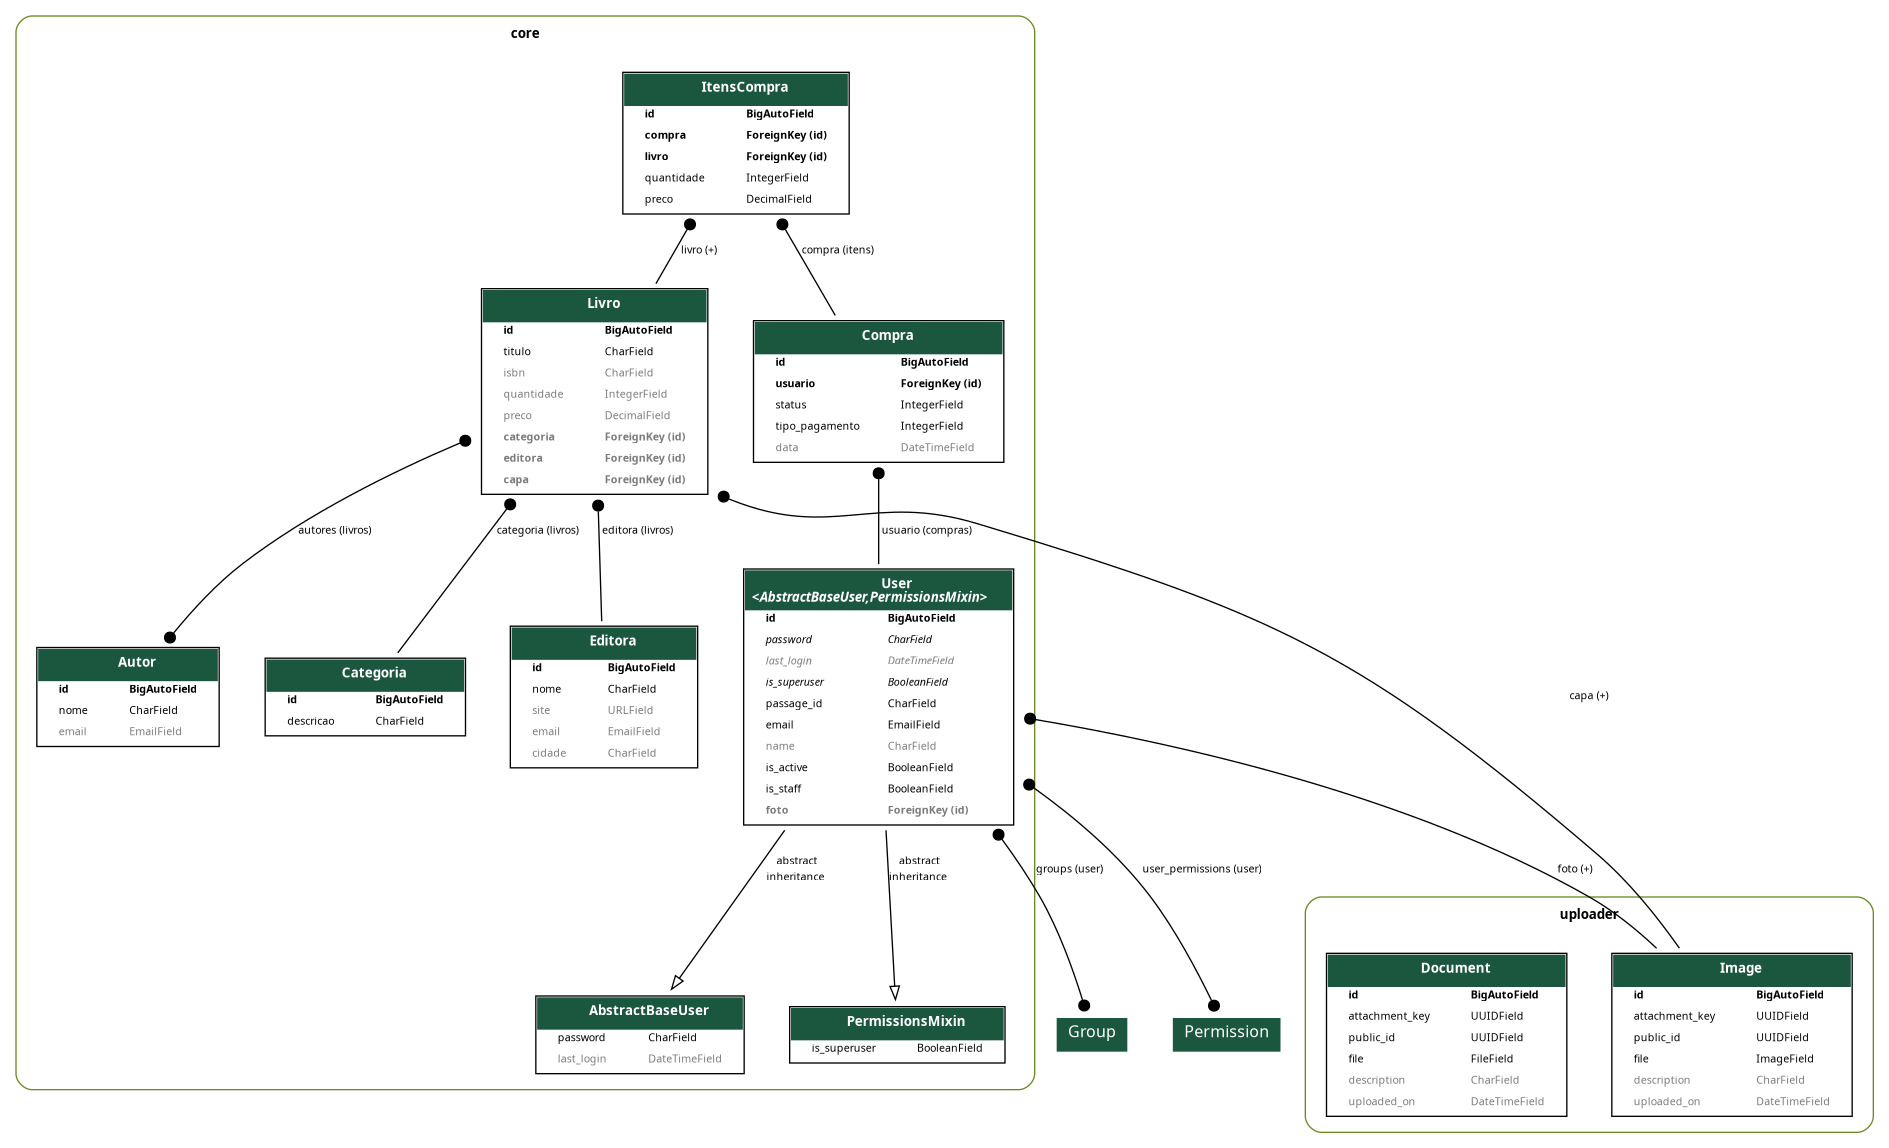
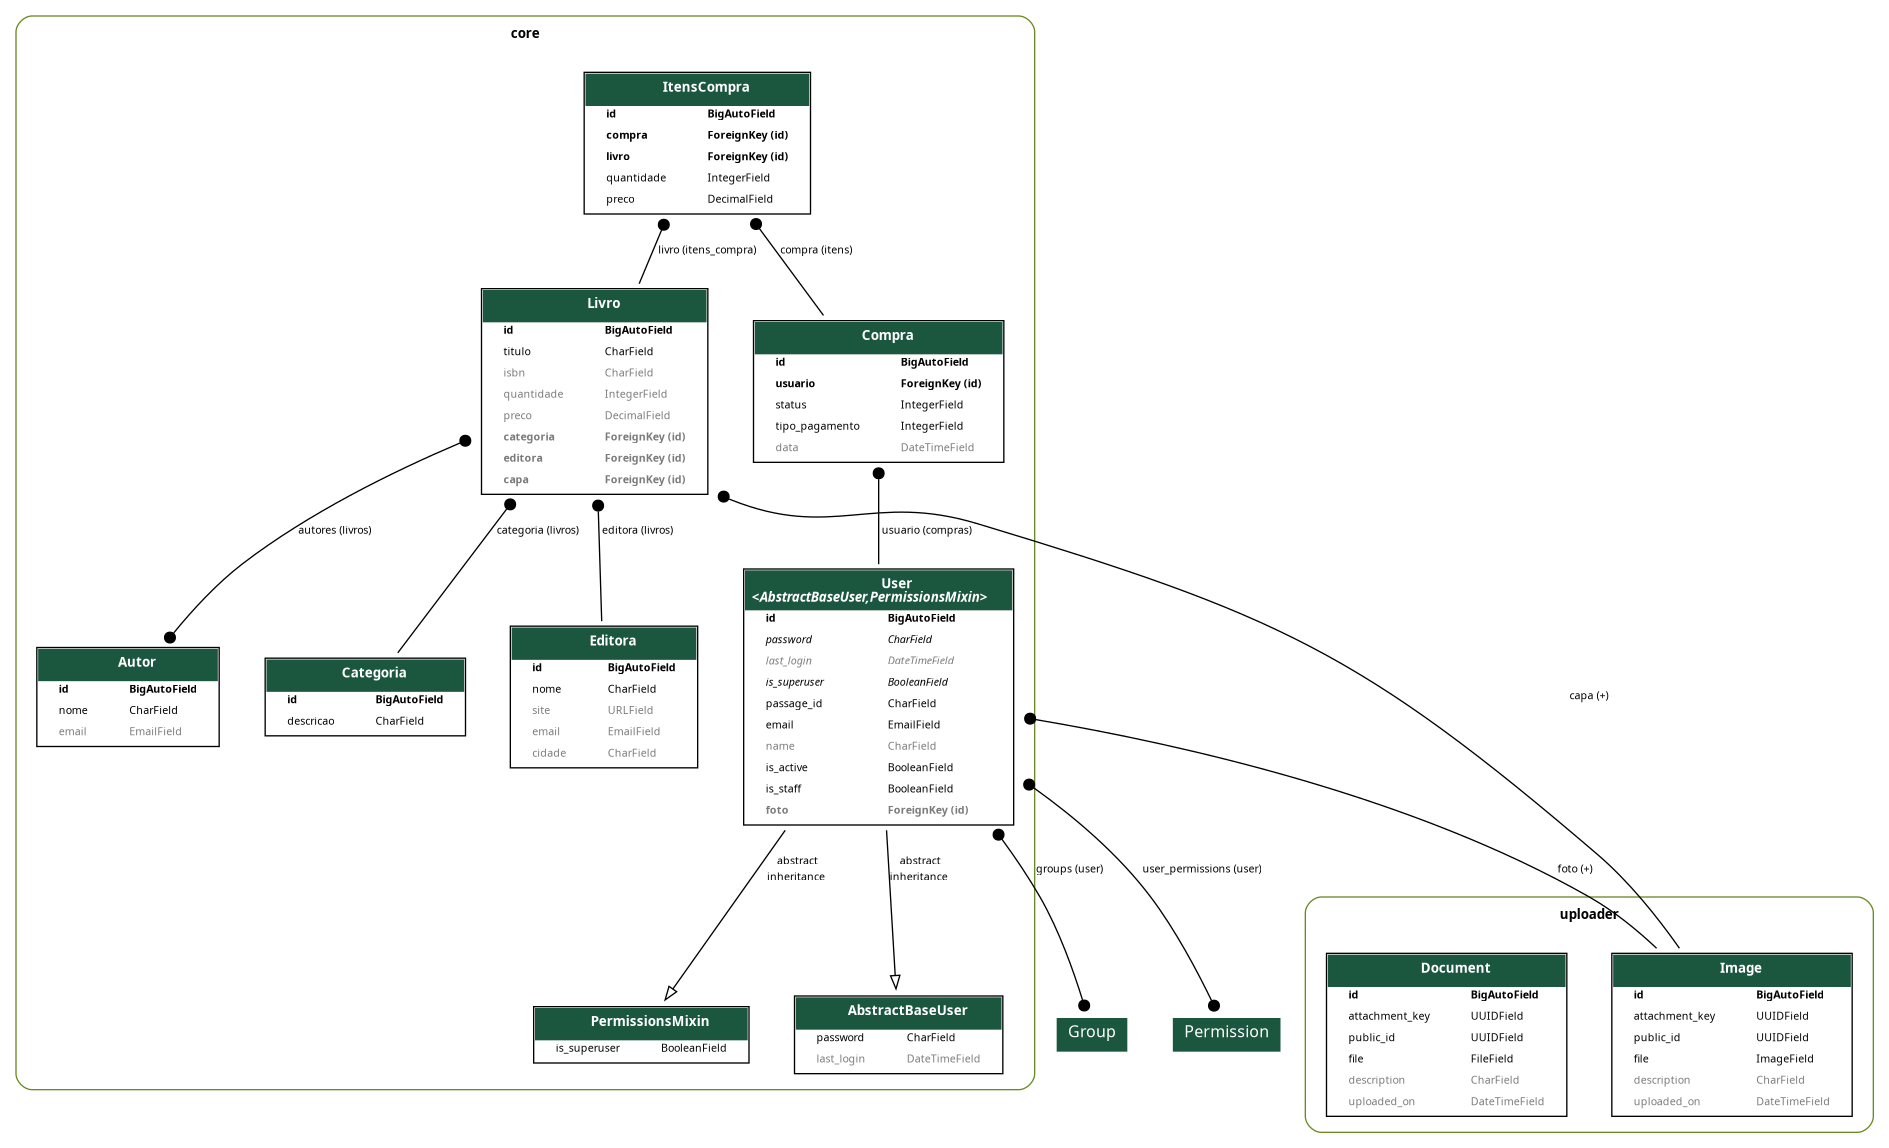
feat: #35d listando livros com mais de 10 cópias vendidas

diff --git a/core/views/livro.py b/core/views/livro.py
@@ -1,3 +1,4 @@
+from django.db.models import Sum
 from drf_spectacular.utils import extend_schema
 from rest_framework import status
 from rest_framework.decorators import action
@@ -8,6 +9,7 @@ from core.models import Livro
 from core.serializers import (
     LivroAlterarPrecoSerializer,
     LivroListSerializer,
+    LivroMaisVendidoSerializer,
     LivroRetrieveSerializer,
     LivroSerializer,
 )
@@ -43,3 +45,26 @@ class LivroViewSet(ModelViewSet):
         return Response(
             {'detail': f'Preço do livro "{livro.titulo}" atualizado para {livro.preco}.'}, status=status.HTTP_200_OK
         )
+
+    @extend_schema(
+        summary="Lista os livros mais vendidos",
+        description="Retorna os livros que venderam mais de 10 unidades.",
+        responses={
+            200: LivroMaisVendidoSerializer(many=True)
+        },
+    )
+    @action(detail=False, methods=['get'])
+    def mais_vendidos(self, request):
+        livros = Livro.objects.annotate(
+            total_vendidos=Sum('itens_compra__quantidade')
+        ).filter(total_vendidos__gt=10).order_by('-total_vendidos')
+
+        serializer = LivroMaisVendidoSerializer(livros, many=True)
+
+        if not serializer.data:
+            return Response(
+                {"detail": "Nenhum livro excedeu 10 vendas."},
+                status=status.HTTP_200_OK
+            )
+
+        return Response(serializer.data, status=status.HTTP_200_OK)

diff --git a/core/migrations/0024_alter_compra_status_alter_itenscompra_livro.py b/core/migrations/0024_alter_compra_status_alter_itenscompra_livro.py
@@ -1,0 +1,24 @@
+# Generated by Django 5.2.1 on 2025-10-14 12:16
+
+import django.db.models.deletion
+from django.db import migrations, models
+
+
+class Migration(migrations.Migration):
+
+    dependencies = [
+        ('core', '0023_compra_tipo_pagamento'),
+    ]
+
+    operations = [
+        migrations.AlterField(
+            model_name='compra',
+            name='status',
+            field=models.IntegerField(choices=[(1, 'Carrinho'), (2, 'Finalizado'), (3, 'Pago'), (4, 'Entregue')], default=1),
+        ),
+        migrations.AlterField(
+            model_name='itenscompra',
+            name='livro',
+            field=models.ForeignKey(on_delete=django.db.models.deletion.PROTECT, related_name='itens_compra', to='core.livro'),
+        ),
+    ]

diff --git a/core/serializers/livro.py b/core/serializers/livro.py
@@ -1,5 +1,6 @@
 from rest_framework.serializers import (
     DecimalField,
+    IntegerField,
     ModelSerializer,
     Serializer,
     SlugRelatedField,
@@ -25,6 +26,14 @@ class LivroListSerializer(ModelSerializer):
     class Meta:
         model = Livro
         fields = ("id", "titulo", "preco")
+
+
+class LivroMaisVendidoSerializer(ModelSerializer):
+    total_vendidos = IntegerField()
+
+    class Meta:
+        model = Livro
+        fields = ['id', 'titulo', 'total_vendidos']
 
 
 class LivroRetrieveSerializer(ModelSerializer):

diff --git a/core/models/compra.py b/core/models/compra.py
@@ -35,7 +35,7 @@ class Compra(models.Model):
 
 class ItensCompra(models.Model):
     compra = models.ForeignKey(Compra, on_delete=models.CASCADE, related_name='itens')
-    livro = models.ForeignKey(Livro, on_delete=models.PROTECT, related_name='+')
+    livro = models.ForeignKey(Livro, on_delete=models.PROTECT, related_name='itens_compra')
     quantidade = models.IntegerField(default=1)
     preco = models.DecimalField(max_digits=7, decimal_places=2, default=0)
 

diff --git a/core/serializers/__init__.py b/core/serializers/__init__.py
@@ -12,6 +12,7 @@ from .editora import EditoraSerializer
 from .livro import (
     LivroAlterarPrecoSerializer,
     LivroListSerializer,
+    LivroMaisVendidoSerializer,
     LivroRetrieveSerializer,
     LivroSerializer,
 )
